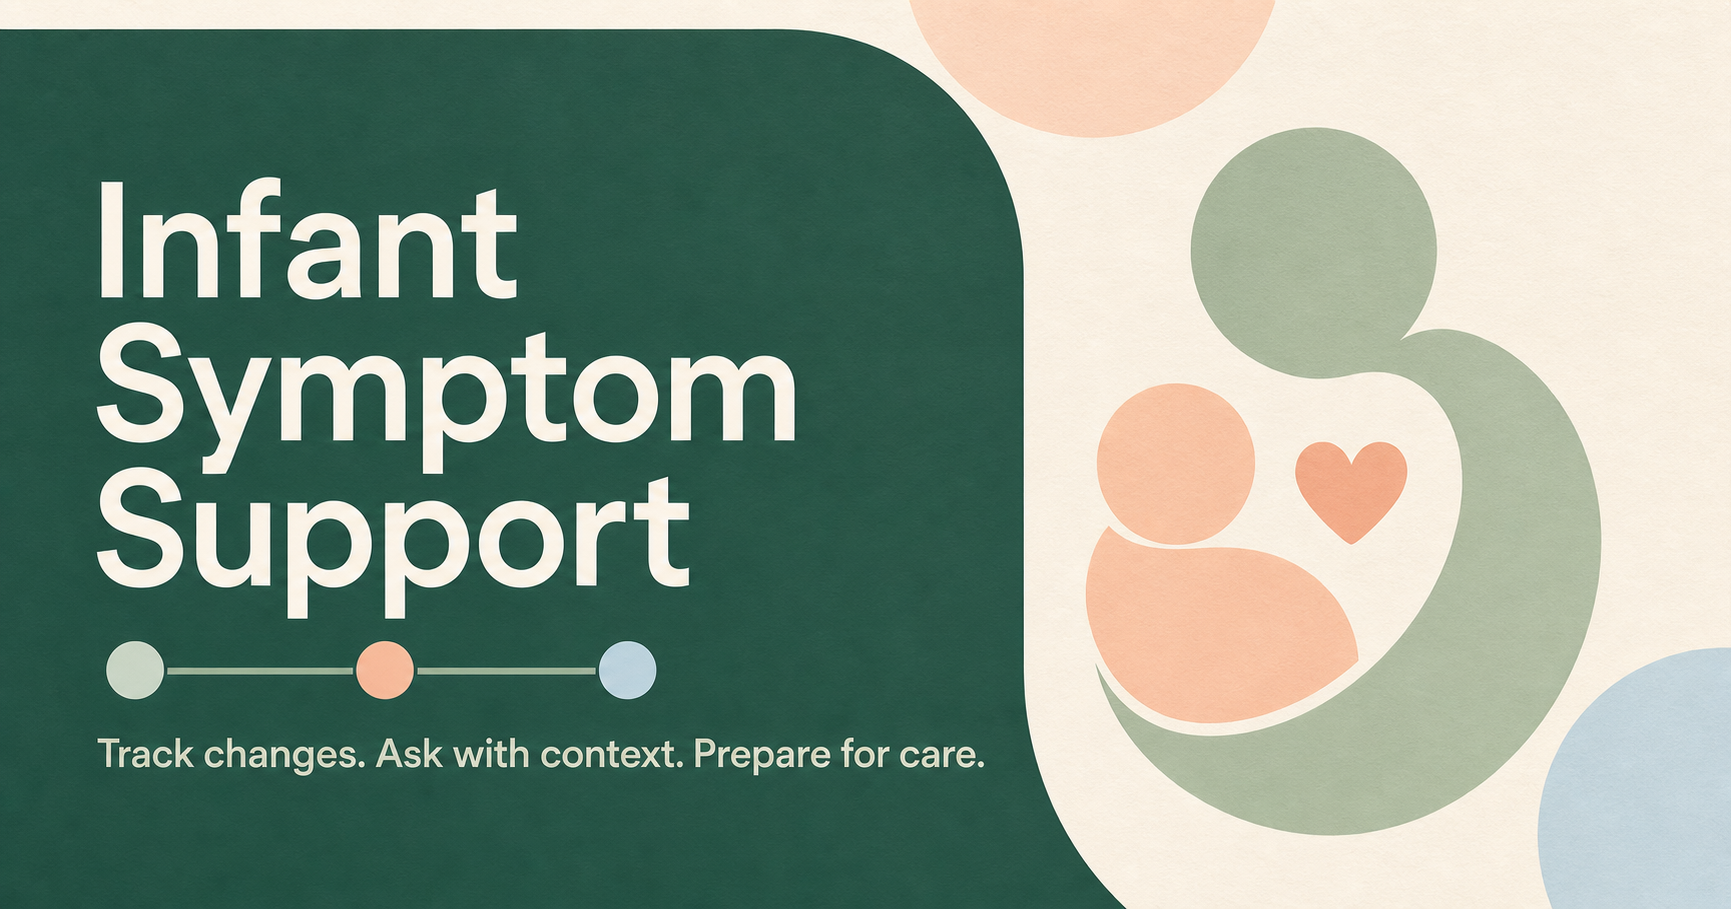
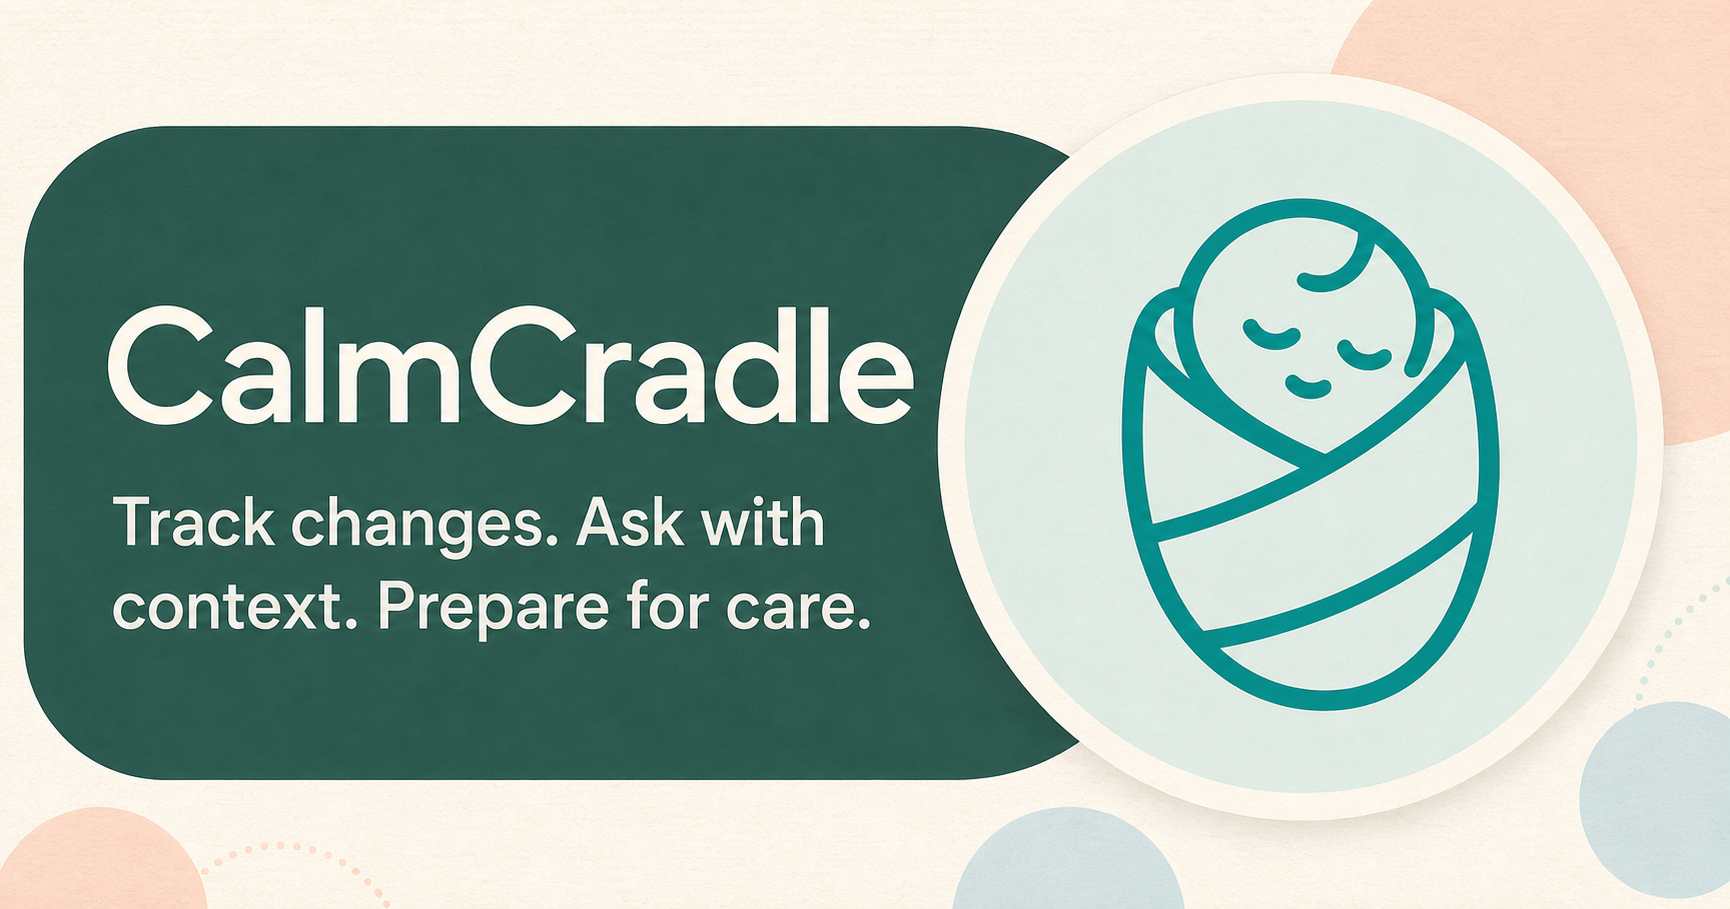
Rebrand app as CalmCradle

diff --git a/app/globals.css b/app/globals.css
@@ -45,17 +45,17 @@ button:focus-visible, input:focus-visible, textarea:focus-visible, select:focus-
 }
 .brand { display: flex; align-items: center; gap: 12px; padding: 0 8px 32px; }
 .brand-mark {
-  width: 38px;
-  height: 38px;
+  width: 42px;
+  height: 42px;
   display: grid;
   place-items: center;
-  background: var(--green);
-  color: white;
-  border-radius: 13px 13px 13px 5px;
-  box-shadow: 0 8px 20px rgba(45, 103, 91, .18);
+  background: #e8f3ef;
+  border: 1px solid #d2e7df;
+  border-radius: 14px;
+  box-shadow: 0 8px 20px rgba(45, 103, 91, .1);
   flex: 0 0 auto;
 }
-.brand-mark span { font-size: 23px; transform: translateY(-1px); }
+.brand-mark img { width: 28px; height: 34px; object-fit: contain; }
 .brand strong, .brand > div > span { display: block; font-size: 14px; line-height: 1.25; }
 .brand > div > span { color: var(--muted); }
 .side-nav nav { display: grid; gap: 7px; }
@@ -443,8 +443,8 @@ h2 { font-family: Georgia, "Times New Roman", serif; margin: 0; font-weight: 500
   .workspace { margin-left: 0; }
   .topbar { justify-content: space-between; padding: 0 22px; height: 64px; }
   .mobile-brand { border: 0; background: transparent; display: flex; align-items: center; gap: 10px; font-weight: 700; font-size: 14px; }
-  .mobile-brand .brand-mark { width: 32px; height: 32px; border-radius: 10px 10px 10px 4px; }
-  .mobile-brand .brand-mark span { font-size: 18px; }
+  .mobile-brand .brand-mark { width: 34px; height: 34px; border-radius: 11px; }
+  .mobile-brand .brand-mark img { width: 23px; height: 28px; }
   .content { padding: 35px 24px 100px; }
   .chat-layout, .report-layout { grid-template-columns: 1fr; }
   .chat-context { display: none; }

diff --git a/app/page.tsx b/app/page.tsx
@@ -200,7 +200,7 @@ function MediaPreview({ item }: { item: MediaItem }) {
 function BrandMark() {
   return (
     <div className="brand-mark" aria-hidden="true">
-      <span>♡</span>
+      <img src="/calmcradle-logo.png" alt="" />
     </div>
   );
 }
@@ -390,7 +390,7 @@ export default function Home() {
     doc.setTextColor(255, 255, 255);
     doc.setFont("helvetica", "bold");
     doc.setFontSize(19);
-    doc.text("Infant Symptom Summary", margin, 64);
+    doc.text("CalmCradle · Infant Symptom Summary", margin, 64);
     doc.setFont("helvetica", "normal");
     doc.setFontSize(10);
     doc.text("Prepared for Mila · 5 months old", margin, 84);
@@ -459,8 +459,8 @@ export default function Home() {
         <div className="brand">
           <BrandMark />
           <div>
-            <strong>Infant Symptom</strong>
-            <span>Support</span>
+            <strong>CalmCradle</strong>
+            <span>Infant symptom support</span>
           </div>
         </div>
         <nav aria-label="Primary navigation">
@@ -485,7 +485,7 @@ export default function Home() {
       <section className="workspace">
         <header className="topbar">
           <button className="mobile-brand" onClick={() => goTo("chat")} aria-label="Go to Assistant">
-            <BrandMark /><span>Infant Symptom Support</span>
+            <BrandMark /><span>CalmCradle</span>
           </button>
           <div className="top-actions">
             <button className="emergency-link" onClick={() => { setUrgencyOpen(true); setUrgencyResult("emergency"); }}>

diff --git a/app/layout.tsx b/app/layout.tsx
@@ -11,20 +11,21 @@ export async function generateMetadata(): Promise<Metadata> {
 
   return {
     metadataBase: baseUrl,
-    title: "Infant Symptom Support",
+    title: "CalmCradle",
     description,
     icons: {
-      icon: "/favicon.svg",
-      shortcut: "/favicon.svg",
+      icon: "/calmcradle-logo.png",
+      shortcut: "/calmcradle-logo.png",
+      apple: "/calmcradle-logo.png",
     },
     openGraph: {
-      title: "Infant Symptom Support",
+      title: "CalmCradle",
       description,
       images: [{ url: new URL("/og.png", baseUrl).toString(), width: 1200, height: 630 }],
     },
     twitter: {
       card: "summary_large_image",
-      title: "Infant Symptom Support",
+      title: "CalmCradle",
       description,
       images: [new URL("/og.png", baseUrl).toString()],
     },

diff --git a/app/api/chat/route.ts b/app/api/chat/route.ts
@@ -11,7 +11,7 @@ type ChatPayload = {
   timeline?: TimelineContext[];
 };
 
-const systemPrompt = `You are the support assistant inside Infant Symptom Support, a calm educational tool for parents of infants.
+const systemPrompt = `You are the support assistant inside CalmCradle, a calm educational tool for parents of infants.
 
 Your role is to help a caregiver organize observations, understand what details matter, and prepare questions for a qualified healthcare professional. You may describe visible characteristics in an attached image, but never claim to diagnose a rash, infection, injury, or other condition from text or an image.
 
